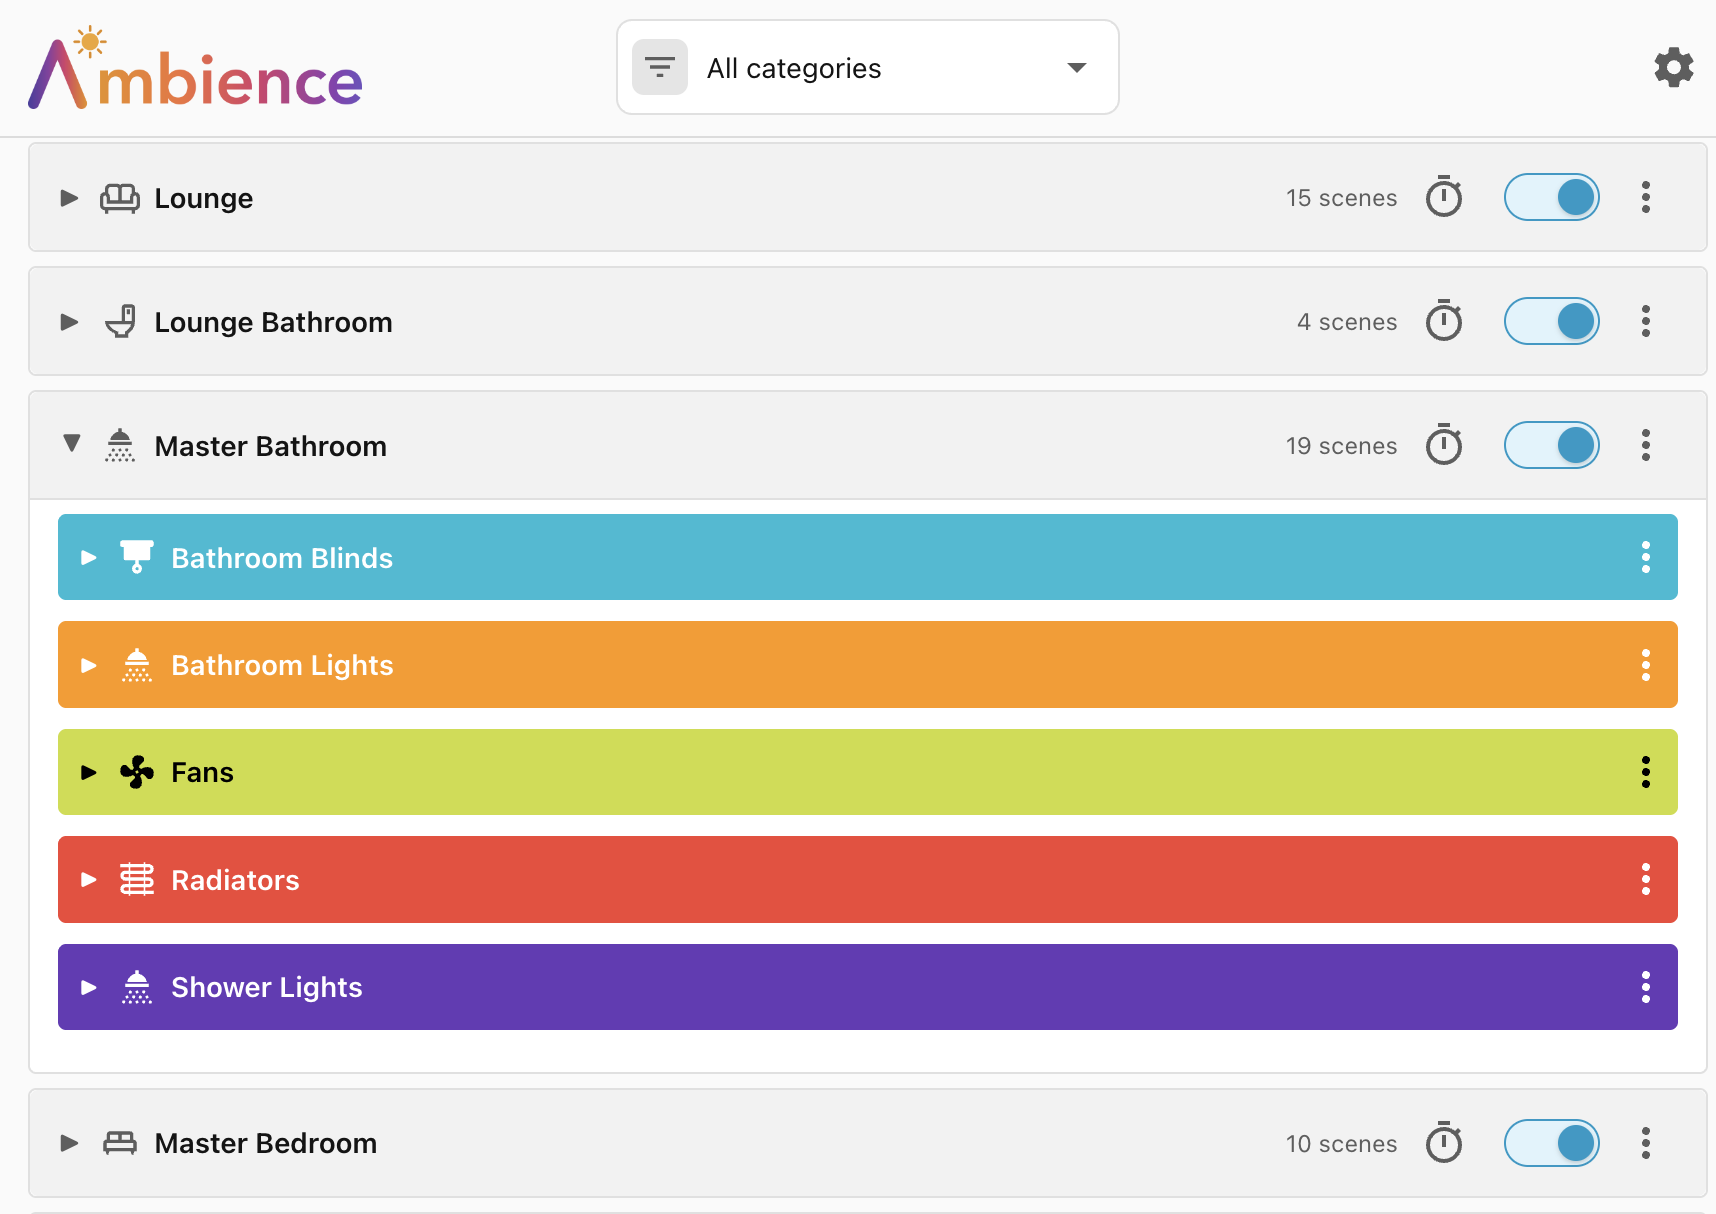
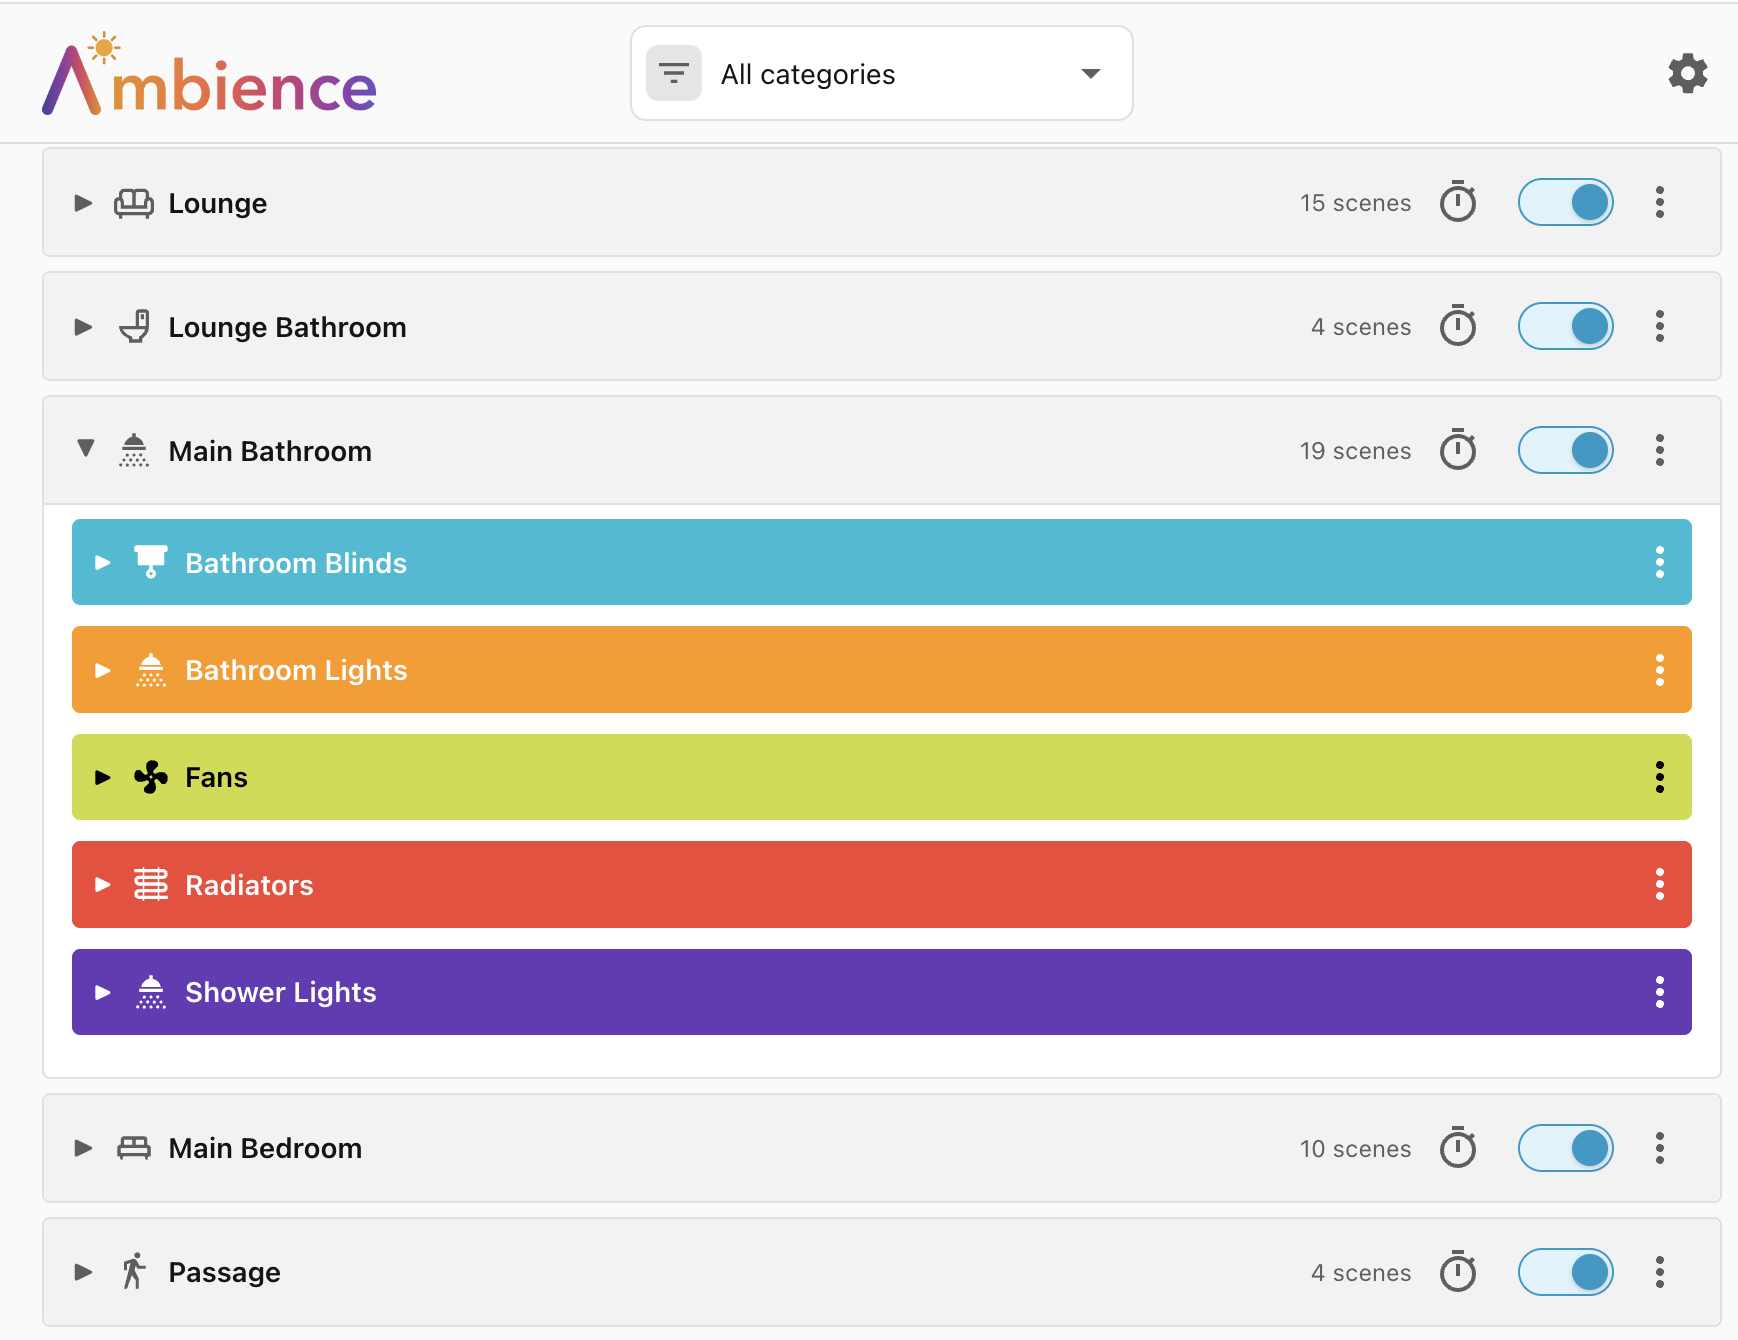
docs: add getting-started screenshots; narrow image cap to 650px

diff --git a/docs/stylesheets/extra.css b/docs/stylesheets/extra.css
@@ -66,7 +66,7 @@
    full reading column. max-width only shrinks oversized images — smaller
    images (and the inline "My Home Assistant" badge) keep their natural size. */
 .md-typeset img {
-  max-width: 800px;
+  max-width: 650px;
   height: auto;
 }
 

diff --git a/docs/getting-started.md b/docs/getting-started.md
@@ -1,179 +1,116 @@
 # Getting started
 
-This walkthrough sets up lighting automation for one room and adds scenes one at
-a time. Each step introduces exactly one new idea. By the end you will
-understand how scenes work, why their order matters, and how Ambience picks
-which one to apply — without needing to read the Concepts pages first.
+A **Scene** is a combination of the **Conditions** which allow the scene to
+match, and the **Actions** which are applied when the scene matches. This guide
+takes you through setting up scenes to control the lights and blinds in a
+lounge.
 
-The room used throughout is a living room, but the approach is the same for any
-area.
+## Requirements
 
-______________________________________________________________________
+This example depends on the following entities being available in Home
+Assistant:
 
-## Opening the panel
+- lights, including a light group called **Lounge Lights**
+- blinds
+- an occupancy or presence sensor called **Lounge Presence**
+- a weather integration
+- a remote control to turn on the projector called **Cine**
+
+## Scenes for lights
+
+We want the lights in the lounge to support the following scenes:
+
+| Conditions                                             | Device state                                     |
+| ------------------------------------------------------ | ------------------------------------------------ |
+| The room is vacant for more than 1 minute.             | Fade lights off                                  |
+| The room is occupied during the evening or nighttime   | Fade lights to 25%                               |
+| The room is occupied during the day, when it is sunny  | Fade lights to 40%                               |
+| The room is occupied during the day, when it is cloudy | Fade lights to 60%                               |
+| The projector is on for movie time                     | Fade lights off, except side-table lights at 10% |
+
+## Scenes for blinds
+
+The blinds share some conditions with the lights but have their own lifecycle:
+
+| Conditions                                     | Device state  |
+| ---------------------------------------------- | ------------- |
+| Between dusk and sunrise (but not before 8:00) | Blinds closed |
+| Between sunrise (but not before 8:00) and dusk | Blinds open   |
+| The projector is on for movie time             | Blinds closed |
+
+## Step 1: Opening the panel
 
 Open the Ambience panel from the Home Assistant sidebar. The panel lists every
-scope in your home: a **House** row at the top, then one row per floor (prefixed
-"Floor: "), then one row per area (prefixed "Area: "). Each row shows a summary
-— "not configured" until you add scenes — and a toggle switch that lets you
-pause Ambience for that scope.
+**scope** in your home: a **House** row at the top, followed by any **floors**
+and then any **areas**.
 
-Find your living room in the list. Click its row header to expand it.
+![Empty panel.](images/getting-started/empty_panel.png "Empty panel.")
 
-!!! info "📷 Screenshot"
+!!! tip "Optional: set up Workday & Weather"
 
-    The main panel with the "Area: Living room" row expanded, showing an empty scene
-    list and the "+ Add scene" button.
+    The **Weather** and **Day** conditions depend on other services in Home
+    Assistant. You can dismiss the suggestion to set them up for now. Later you will
+    see how to configure them under **Settings**.
 
-______________________________________________________________________
+## Step 2: Add a category
 
-## Layer 1 — empty room: turn the lights off
+We want to set up scenes to control the lights in the lounge. To start we will
+add a new category called **Lights**, by clicking **+ Add category** at the top
+of the screen.
 
-The simplest possible scene: when nobody is in the room, switch the lights off.
+This takes you to the **Categories** tab under **Settings**. Click the **+ Add
+category** button and fill out the form as shown below:
 
-1. Click **+ Add scene** inside the living room row. The scene editor opens as a
-    side panel.
-1. Click the name field (it shows "New scene") and type a name — for example,
-    **Empty**.
-1. Under the **When** heading, click **+ Add condition…** and choose **People**.
-    A condition row appears, pre-set to "Everybody is at Home". Click the row
-    to open it and change the mode to **Nobody** (and set the location to the
-    living-room zone if you have one, or leave it as "Home" to cover the whole
-    house).
-1. Under the **Actions** heading, click **+ Add action…** and choose your
-    light-off service (for example "Turn off light"). Select the living-room
-    lights as the target.
-1. Click **Save scene**.
+![Add a category called Lights.](images/getting-started/lights_category.png "Add a category called Lights.")
 
-Ambience now monitors the People condition. Whenever nobody is in the configured
-location, this scene applies and the lights go off.
+Click **Save** and then close the settings page with the **X** in the top right
+corner. Then select the **Lights** category from the **Category filter** at the
+top of the page.
 
-!!! info "📷 Screenshot"
+![Lights category selected.](images/getting-started/category_selector.png "Lights category selected.")
 
-    The scene editor with the People condition open, the mode set to "Nobody" and
-    the location set to the living-room zone.
+## Step 3: Add the *Vacant* scene
 
-______________________________________________________________________
+The first scene we'll add is the **Vacant** scene — what the lights should do
+when the room has been vacant for at least 1 minute. Click the **Lounge** header
+to expand that scope, then:
 
-## Layer 2 — someone home in the evening: warm, low light
+- Press the **+ Add scene** button.
+- Click on **New scene** to change the name to **Vacant**.
+- The **Category** and **Scope** should already be set to **Lights** and
+    **Lounge** respectively.
 
-Add a second scene for occupied evenings.
+![Adding a new scene.](images/getting-started/add_vacant_1.png "Adding a new scene.")
 
-1. Click **+ Add scene** again and name it **Evening**.
-1. Add a **People** condition — this time leave it on **Everybody** or switch it
-    to **Anybody** (someone is present).
-1. Add a **Time of day** condition. Click the row and select the **Evening**
-    period. Evening runs from sunset to dusk; if you also want to cover late
-    nights, add **Nighttime** (sunset until sunrise) to the same condition —
-    you can select multiple periods.
-1. Add a light action set to a warm, dim brightness (for example 20 % at 2700
-    K).
-1. Click **Save scene**.
+!!! info "Scopes and Categories"
 
-### How scenes are tried
+    Scopes and Categories allow you to segment your devices down into small related
+    groups. All the scenes which control (for instance) the lights in the lounge
+    should be added to the **Lounge** scope, under the **Lights** category. That way
+    you can be sure that there are no competing automations trying to control the
+    same devices.
 
-Your living room now has two scenes. Ambience works through them from the top of
-the list to the bottom. The first scene whose conditions all pass is the one
-that applies — the remaining scenes are skipped.
+    The **actions** in a scene can only target devices that belong to that scope (or
+    to children of the scope if the scope is **House** or a floor). **Conditions**,
+    on the other hand, can target entities anywhere in the house.
 
-Order therefore matters. "Empty" should sit above "Evening" so that the
-lights-off instruction wins whenever the room is empty, regardless of the time.
+We want this scene to apply when the lounge has been vacant for at least one
+minute. So, under **When**:
 
-If Ambience put "Evening" first and found someone was home in the evening, it
-would apply "Evening" — and never even check "Empty". With "Empty" first, an
-empty room is caught immediately.
+- Click **Add condition** and choose **Occupancy**.
+- Click **Select an entity**.
+- Select the **Lounge Presence** entity.
+- Change **Detected** to **Clear**.
+- and set **For** to **00:01:00** (i.e. one minute).
 
-Drag the rows to reorder them if needed.
+![Setup occupancy condition.](images/getting-started/add_vacant_2.png "Setup occupancy condition.")
 
-!!! info "📷 Screenshot"
+As soon as you click away from the condition you've just added, the form gets
+replaced by a simple summary of the condition:
 
-    The living room scope showing two scenes: "Empty" at the top, "Evening" below
-    it. The scene list shows each scene's condition summary.
+![Occupancy condition summary.](images/getting-started/add_vacant_3.png "Occupancy condition summary.")
 
 ______________________________________________________________________
-
-## Layer 3 — daytime: brighter, and brighter still when it is overcast
-
-During the day you probably want more light. When the sky is dull you want even
-more. Two scenes handle this, sitting one above the other.
-
-**Scene: Sunny day**
-
-1. Click **+ Add scene** and name it **Sunny day**.
-1. Add a **People** condition — someone present.
-1. Add a **Time of day** condition and select **Daytime** (sunrise until
-    sunset).
-1. Add a **Weather** condition. Open the condition and pick a group that
-    represents good weather (for example **Sunny**), or add a numeric threshold
-    (such as humidity or temperature) if you prefer.
-1. Add a light action at a moderate daytime brightness (for example 70 %).
-1. Click **Save scene**.
-
-**Scene: Dull day**
-
-1. Click **+ Add scene** and name it **Dull day**.
-1. Add the same **People** and **Time of day** (Daytime) conditions.
-1. Add a **Weather** condition set to overcast or low-light conditions.
-1. Add a light action at a higher brightness (for example 90 %) to compensate.
-1. Click **Save scene**.
-
-Place both of these below "Empty" but above "Evening" in the list. Because the
-first match wins, only one of the two daytime scenes will apply at any moment —
-whichever one's weather condition passes first. If neither daytime scene matches
-(because it is not daytime), Ambience moves on to "Evening".
-
-!!! info "📷 Screenshot"
-
-    The scene editor with a Weather condition open, showing the condition groups
-    (Sunny, Dim, Dark, Wet, Windy).
-
-______________________________________________________________________
-
-## Layer 4 — projector on: film mode
-
-Sometimes you want a scene that overrides everything else. When the projector is
-running, close the blinds, dim the main lights, and leave the side lights on
-low.
-
-1. Click **+ Add scene** and name it **Film**.
-1. Add an **Entity state** condition. Select your projector or media player
-    entity and set the expected state (for example, `playing` or `on`).
-1. Add multiple actions:
-    - Close the blinds (a cover service).
-    - Dim the main lights (for example 5 % brightness).
-    - Set the side lights to a low warm level (for example 10 % at 2200 K).
-1. Click **Save scene**.
-1. Drag the **Film** scene to the very top of the list.
-
-Because Film sits first, Ambience checks it before anything else. The moment the
-projector turns on, Film wins and all three actions run together. When the
-projector stops, Film's condition no longer passes, and Ambience falls through
-to whichever other scene matches the current time and occupancy.
-
-!!! info "📷 Screenshot"
-
-    The scene editor for "Film" showing three action rows: one for the blind, one
-    for the main lights, one for the side lights.
-
-______________________________________________________________________
-
-## What you now have
-
-One room. Several scenes. Tried from the top of the list downward. The first one
-whose conditions all pass is applied automatically.
-
-```
-Film          ← projector on → dim lights, close blinds, low side light
-Empty         ← nobody home  → lights off
-Dull day      ← daytime, overcast, someone home → 90 % brightness
-Sunny day     ← daytime, sunny, someone home    → 70 % brightness
-Evening       ← evening or night, someone home  → warm, dim light
-```
-
-Ambience re-evaluates this list whenever any of the tracked inputs change —
-occupancy, time of day, weather, or entity state. You do not need automations,
-helpers, or `input_boolean` flags. Each scene is self-contained: name,
-conditions (the "when"), actions (the "then").
 
 To learn exactly how scenes, categories, and the resolution order fit together,
 see [Scenes & resolution](concepts/scenes-and-resolution.md). To understand why
